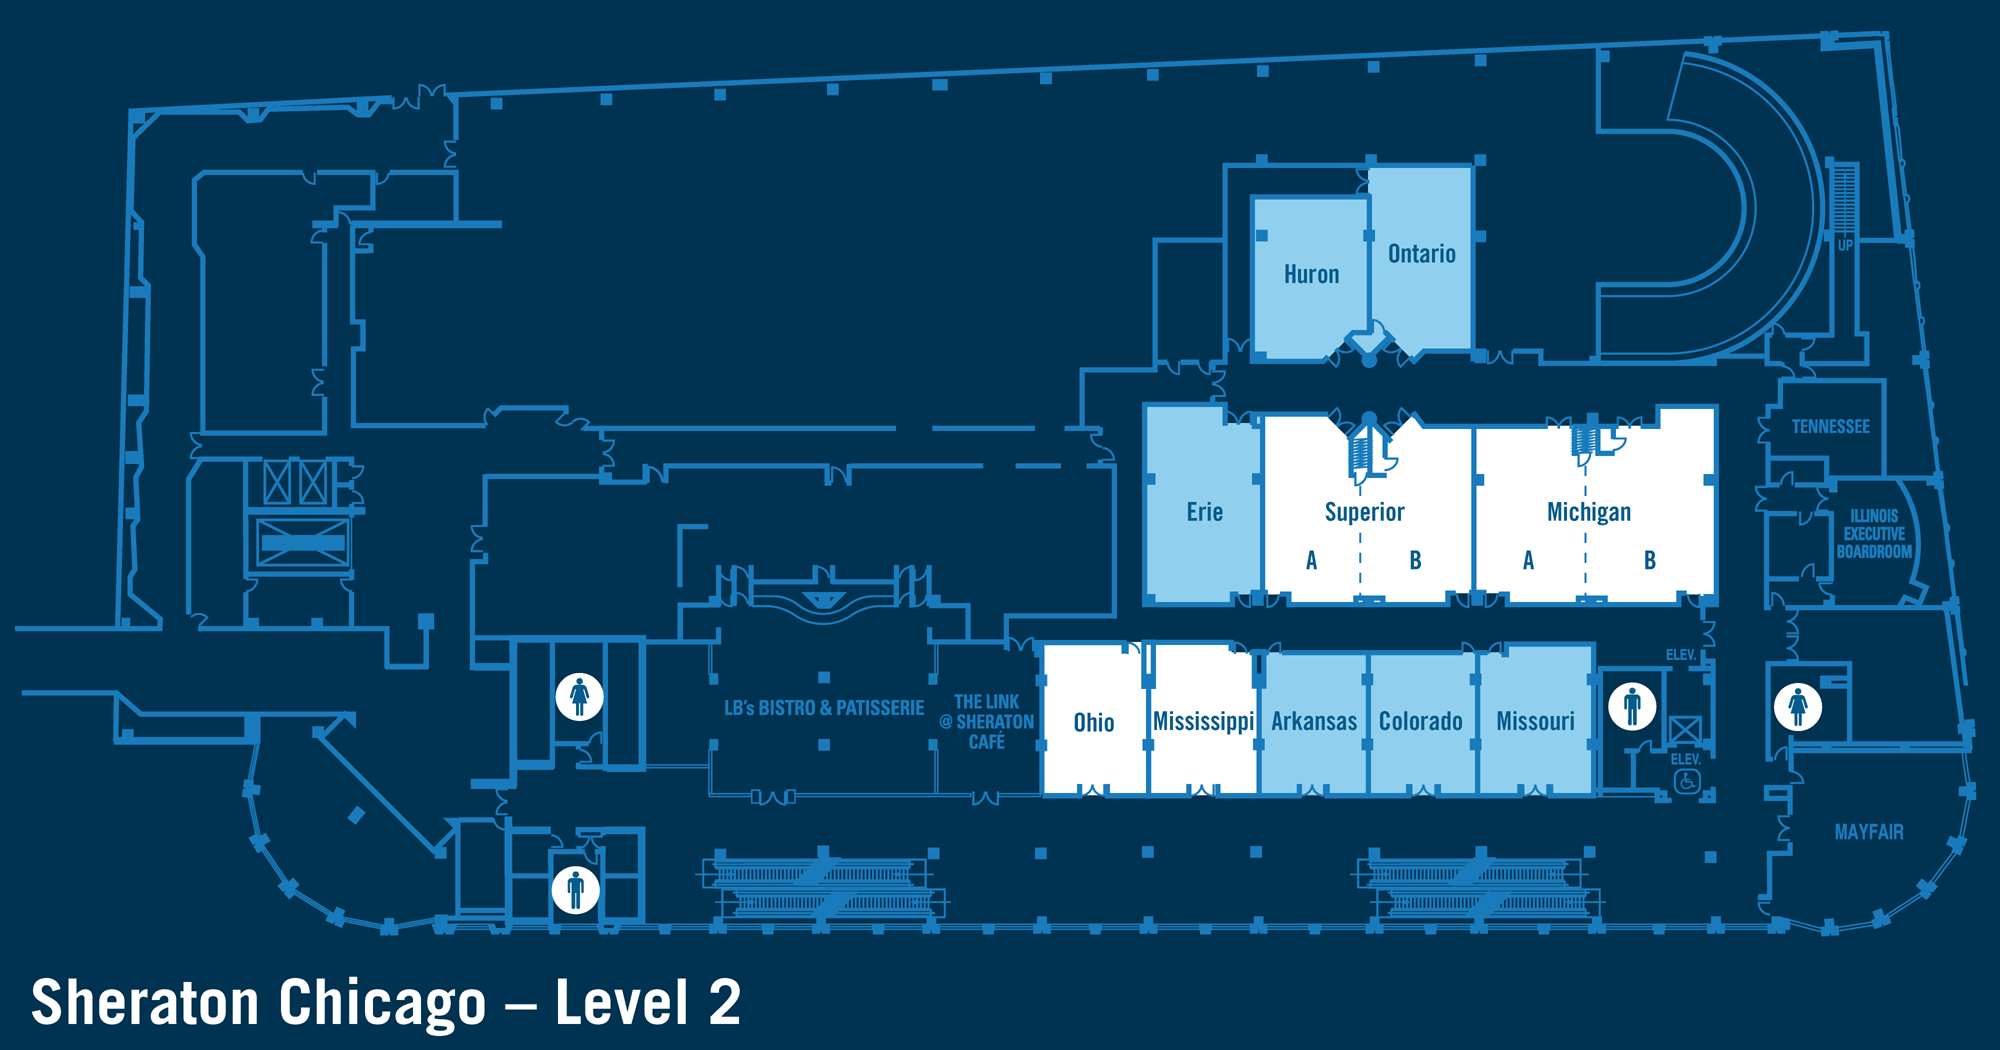
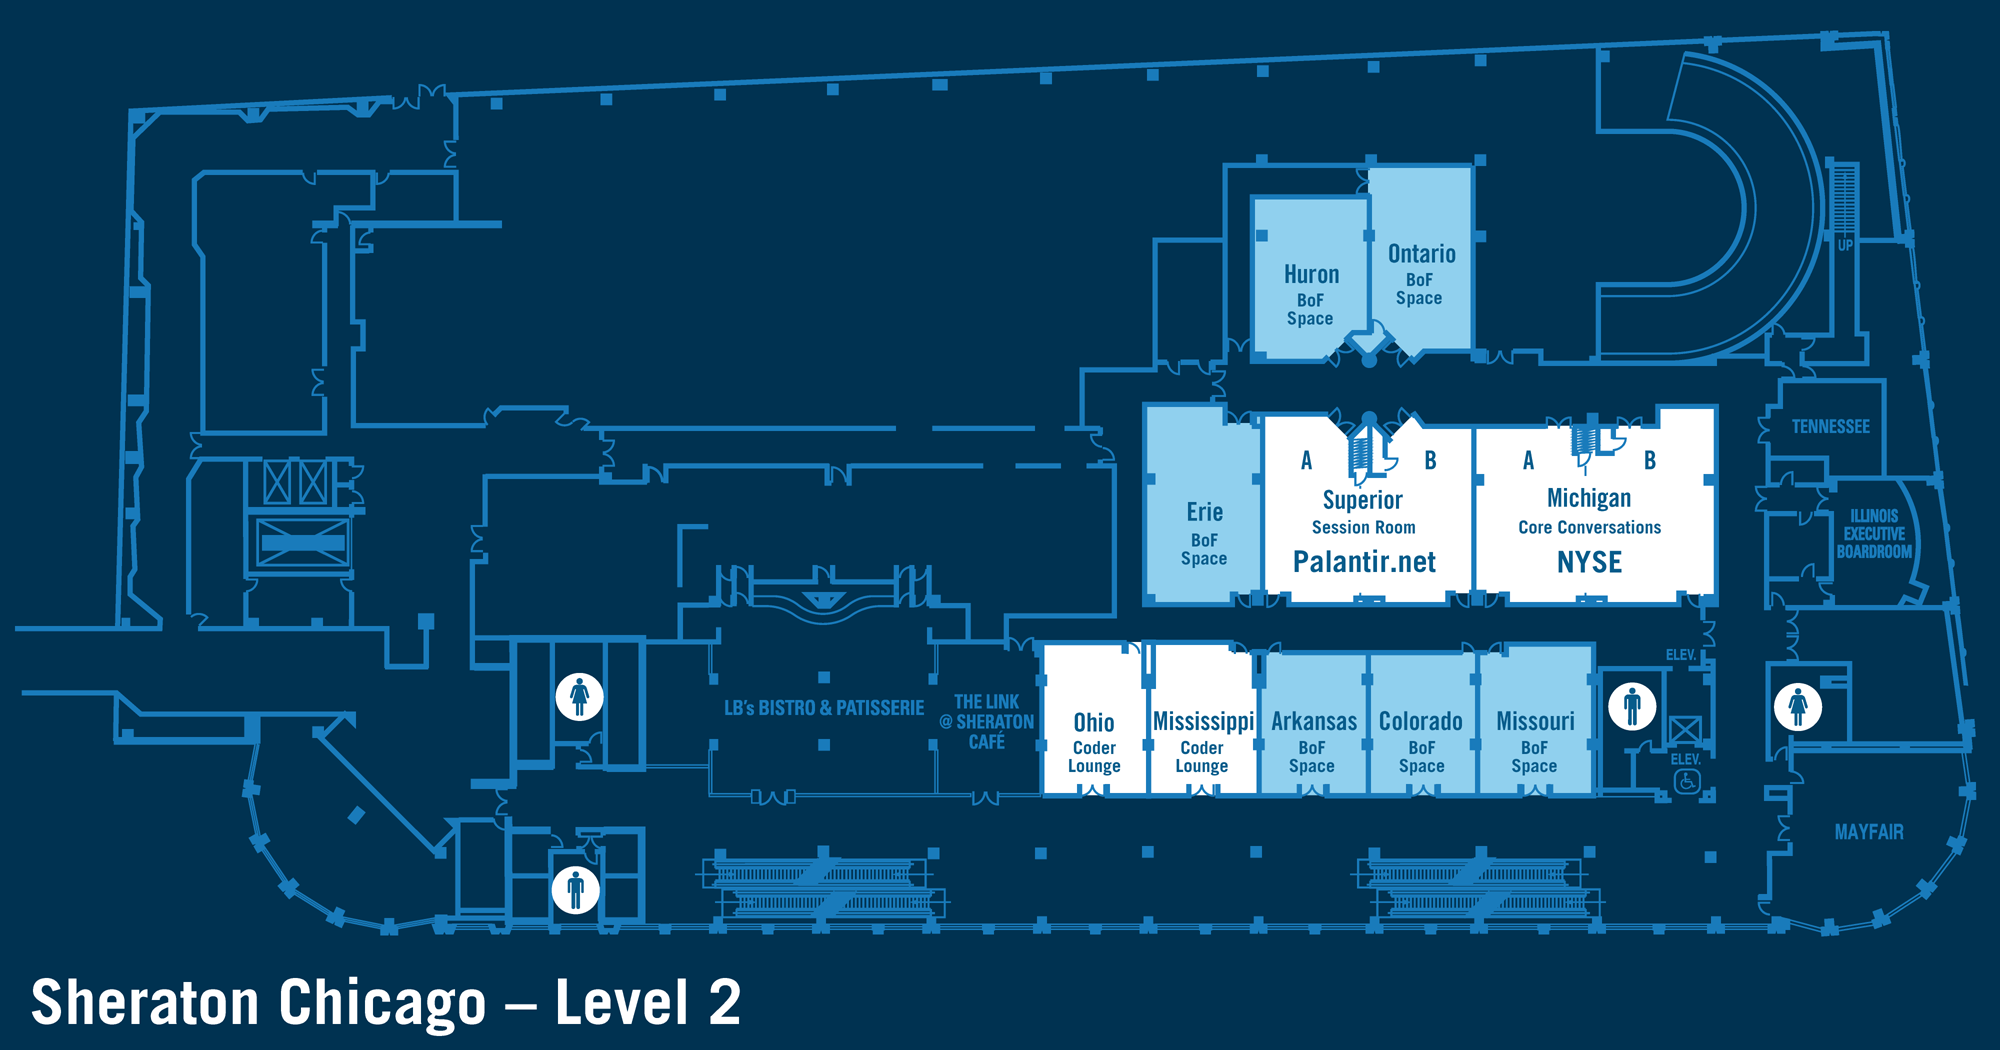
refs #1912 - Altered the map for level 2.

diff --git a/DrupalCon/Resources/windows/TwitterWindow.js b/DrupalCon/Resources/windows/TwitterWindow.js
@@ -18,12 +18,13 @@ var Twitter = {
     var webview = Ti.UI.createWebView({url:'http://mobile.twitter.com/drupalcon'});
     twitterWindow.add(webview);
 
+
+    twitterWindow.addEventListener('focus', function() {
+      var webview = Ti.UI.createWebView({url:'http://mobile.twitter.com/drupalcon'});
+      twitterWindow.add(webview);
+    });
     return twitterWindow;
 
-//    twitterWindow.addEventListener('focus', function() {
-//      var webview = Ti.UI.createWebView({url:'http://mobile.twitter.com/drupalcon'});
-//      twitterWindow.add(webview);
-//    });
 
 //    // Using the parsing method shown https://gist.github.com/819929
 //    var tweetWebJs = "document.body.addEventListener('touchmove', function(e) { e.preventDefault();}, false);";
